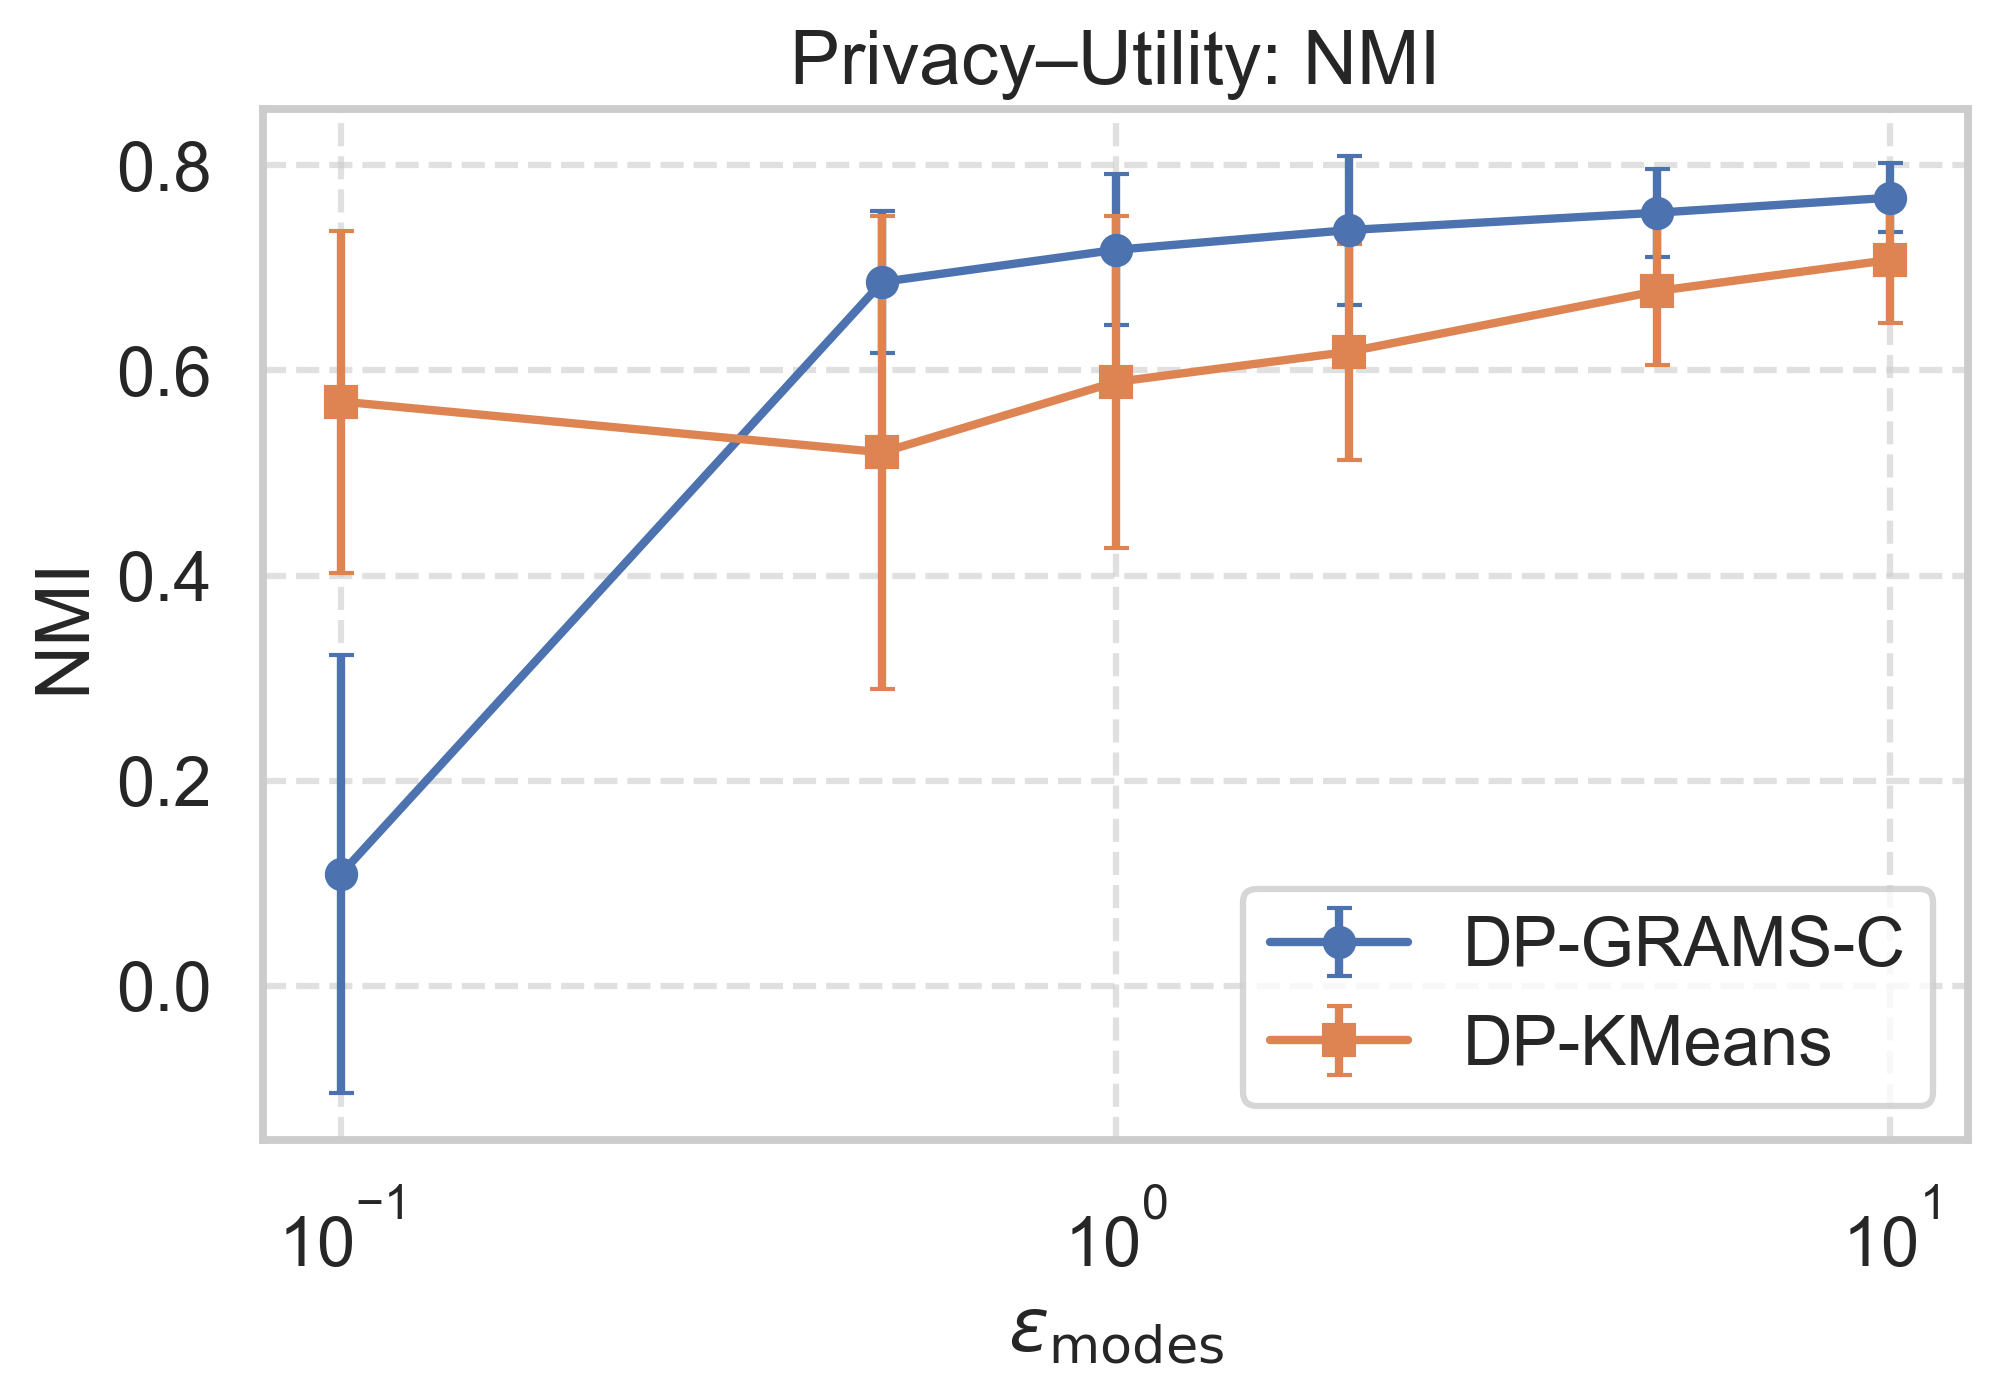
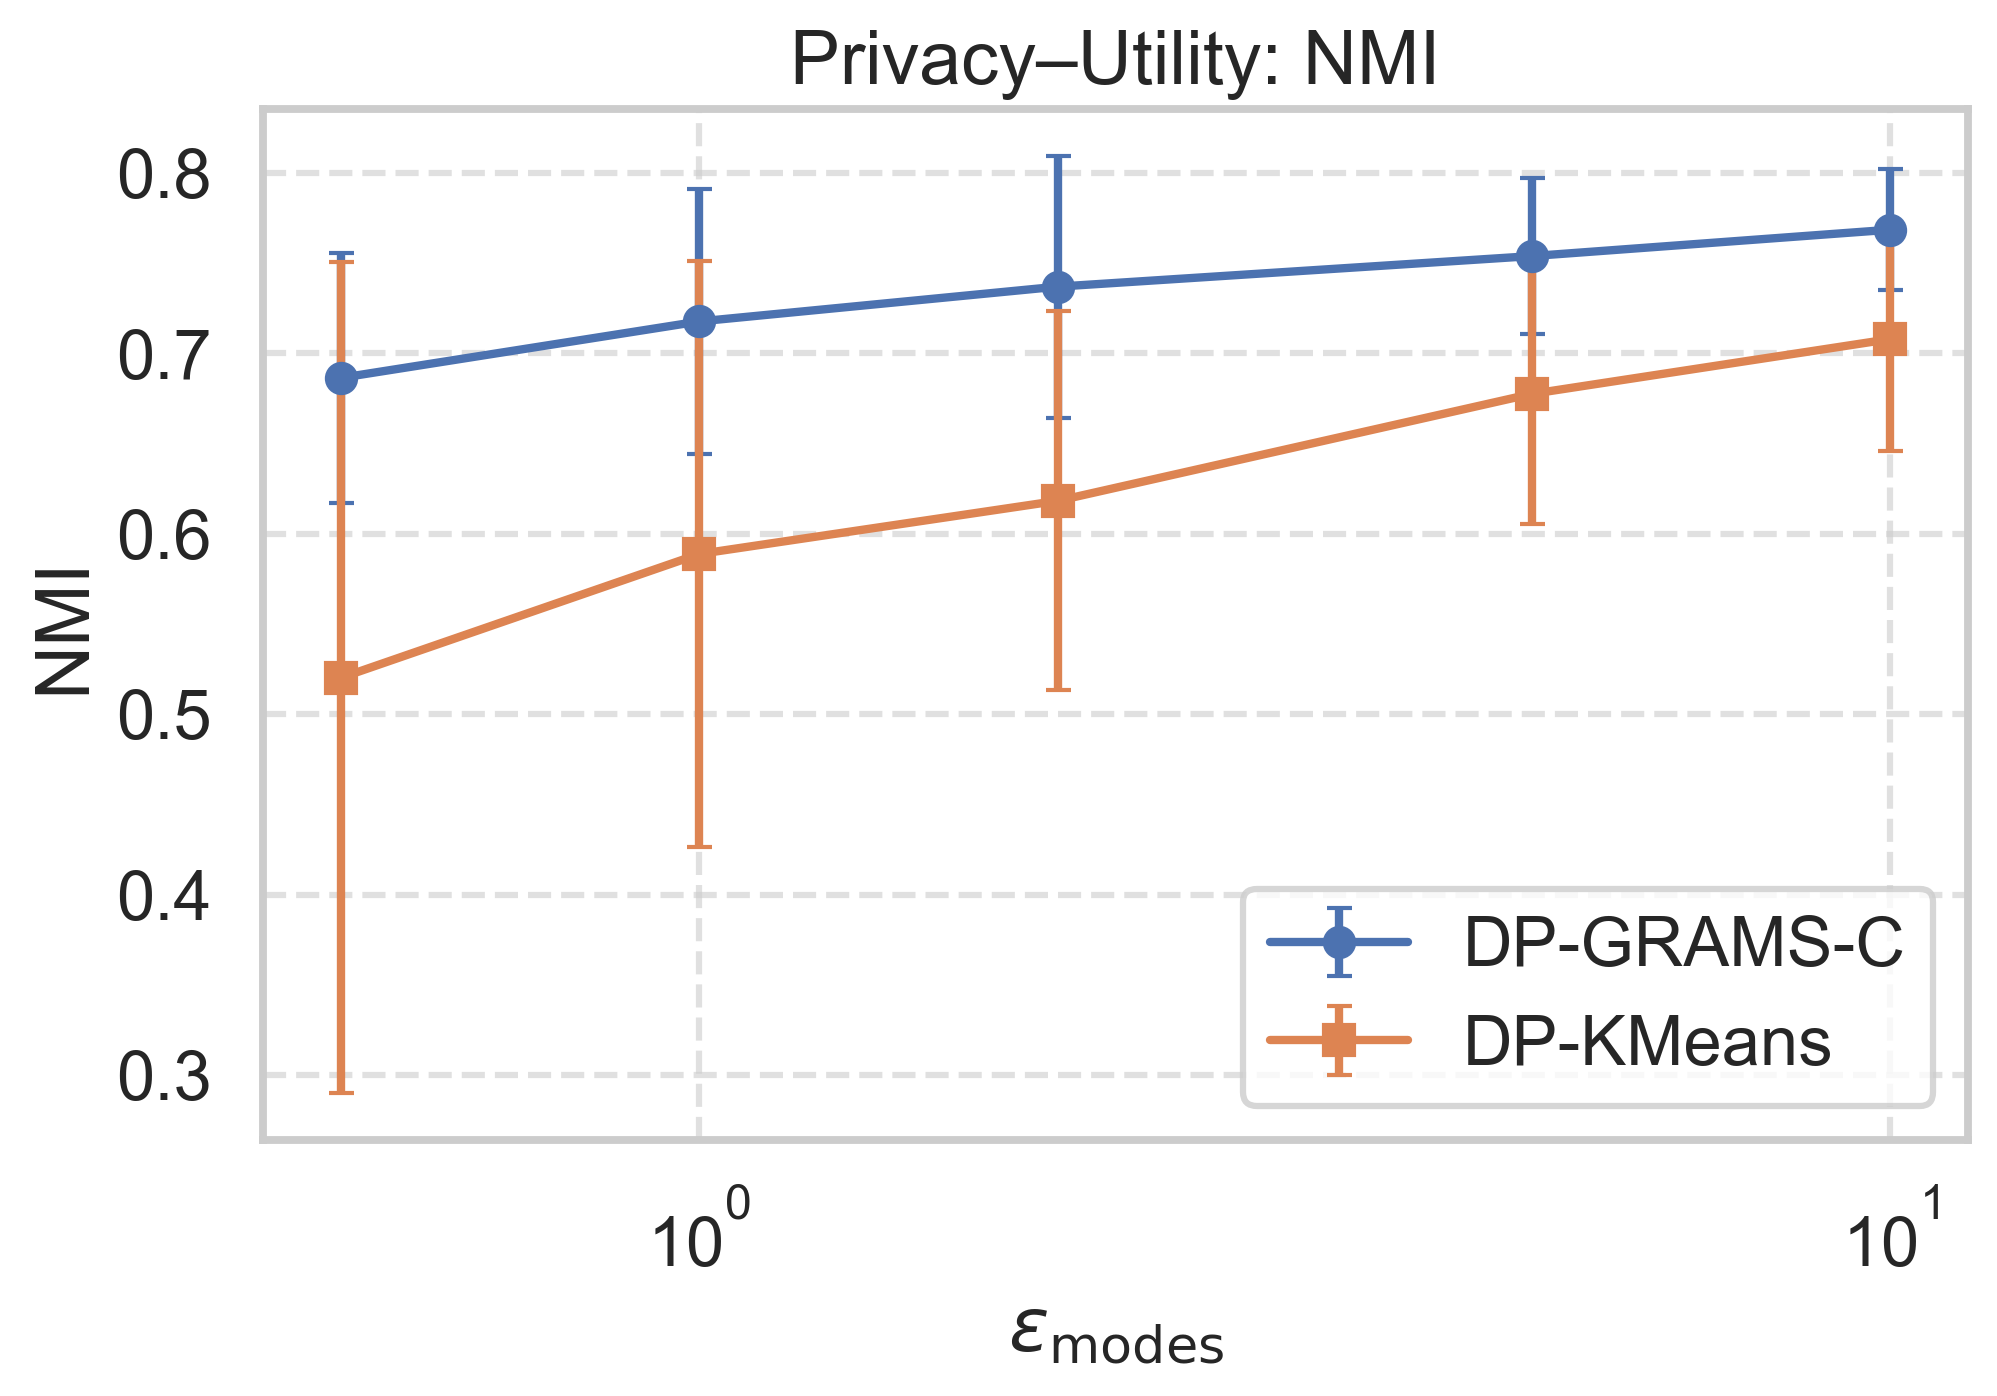
iris updated

diff --git a/real_data_scripts/iris_compare_centroids.py b/real_data_scripts/iris_compare_centroids.py
@@ -314,8 +314,7 @@ print("Clustering comparison plot saved to:", save_path_clusters)
 # ---------------------------------------------------------------------
 # Privacy–utility curves: DP-GRAMS-C vs DP-KMeans as ε_modes varies
 # ---------------------------------------------------------------------
-# eps_modes_list = [0.01, 0.05, 0.1, 0.2, 0.5, 1]
-eps_modes_list = [0.1, 0.5, 1, 2, 5, 10]
+eps_modes_list = [0.5, 1, 2, 5, 10]
 
 dpms_metrics = {m: [] for m in ["ARI", "NMI", "Silhouette", "MSE"]}
 dpkm_metrics = {m: [] for m in ["ARI", "NMI", "Silhouette", "MSE"]}
